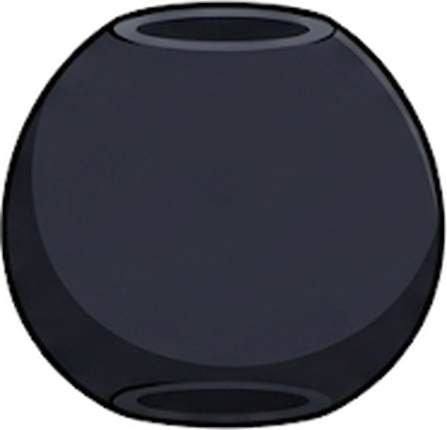
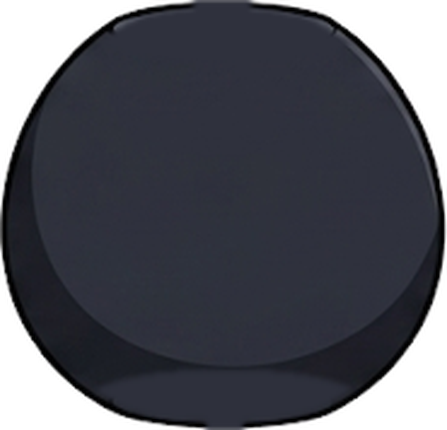
새·개구리 전용 동작: 두 발 걸음(IK)·날갯짓·쪼기·급강하·폴짝 뛰기
- 새 템플릿에 두 다리 IK, bird/frog 전용 동작 파일 추가
- 나는 새(까마귀·독수리)는 전장에서 다리를 접고 날개를 펴 날갯짓
- 부위판 몸통의 목·다리 구멍 자국을 몸 색으로 메움(fill 옵션)

Claude-Session: https://claude.ai/code/session_01E2nhEfyqxMVbe4LYu736id

Changed region(s): [[0.2327, 0.0, 0.7562, 0.1209], [0.2327, 0.8767, 0.698, 1.0]]

diff --git a/src/scenes/BattleScene.js b/src/scenes/BattleScene.js
@@ -853,12 +853,13 @@ export default class BattleScene extends Phaser.Scene {
     const r = v.rig;
     if (!r) return;
     const m = r.inst.motion;
+    const mv = u.stats.flyer && r.inst.anims.fly ? 'fly' : 'move';   // 나는 새는 걷지 않고 날갯짓
     const busy = [...ATTACK_MOTIONS, 'skill', 'hit', 'merge_in', 'evolve', 'respawn'].includes(m) && !r.inst.finished;
     if (this.state.result === 'clear') { if (m !== 'victory') r.inst.play('victory', { loop: true }); }
     else if (u.down) { if (m !== 'down') r.inst.play('down'); }
     else if (v.wasDown) { r.inst.play('respawn'); this.fx.respawn(v.container.x, v.container.y); sfx('respawn'); }
-    else if (onField && (u.moving || v.walking)) { if (m !== 'move') r.inst.play('move', { loop: true }); r.inst.moveVelocity = (u.moving ? Math.sign(u.targetPos - u.pos) : v.walkDir) * 180; }
-    else if (!busy && onField && u.stats.flyer) { if (m !== 'move') r.inst.play('move', { loop: true }); }
+    else if (onField && (u.moving || v.walking)) { if (m !== mv) r.inst.play(mv, { loop: true }); r.inst.moveVelocity = (u.moving ? Math.sign(u.targetPos - u.pos) : v.walkDir) * 180; }
+    else if (!busy && onField && u.stats.flyer) { if (m !== mv) r.inst.play(mv, { loop: true }); }
     else if (!busy && m !== 'idle') r.inst.play('idle', { loop: true });
     if (!u.moving && !v.walking) r.inst.moveVelocity = 0;
     r.inst.setFacing(onField && ((u.moving && u.targetPos < u.pos) || (!u.moving && v.walking && v.walkDir < 0)) ? -1 : 1);

diff --git a/src/scenes/rigs.js b/src/scenes/rigs.js
@@ -15,7 +15,7 @@ export function preloadRigs(scene) {
 const json = (scene, key) => scene.cache.json.get(key);
 
 /** 공격 동작들(할퀴기·들이받기·물기·덮치기 포함). 리그의 attacks 목록을 차례로 돌려 써서 공격이 단조롭지 않게 함. */
-export const ATTACK_MOTIONS = ['attack', 'claw', 'butt', 'bite', 'pounce'];
+export const ATTACK_MOTIONS = ['attack', 'claw', 'butt', 'bite', 'pounce', 'peck', 'swoop'];
 export function playAttack(inst) {
   const list = (inst.rig.attacks || []).filter((n) => inst.anims[n]);
   if (!list.length) return inst.play('attack');

diff --git a/tools/gen_anims.py b/tools/gen_anims.py
@@ -104,4 +104,51 @@ B['hit'] = {'duration': 0.35, 'mix': 0.03, 'breath': 0, 'ik': {'sink': 12},
              'leg_fn_up': {'rot': K((0, 0), (0.06, -30, 'out'), (0.35, 0))}, 'leg_fr_up': {'rot': K((0, 0), (0.06, -24, 'out'), (0.35, 0))}}}
 for k in ('bite', 'pounce'): B.pop(k, None)
 json.dump(B, open(os.path.join(D, 'biped.anims.json'), 'w'), ensure_ascii=False)
-print('anims:', len(Q), 'quadruped clips,', len(B), 'biped clips')
+
+# ---------------------------------------------------------------- 새(까마귀·독수리·수탉): 날개는 wing(+회전 = 위로 듦), 두 다리 IK
+L = json.load(open(os.path.join(D, 'legacy.anims.json')))
+V = copy.deepcopy(L)
+V['idle'] = {'duration': 2.6, 'loop': True, 'breath': 1, 'ik': {'sink': 5},
+  'tracks': {'hips': {'y': K((0, 0), (1.3, 3), (2.6, 0))},
+             'head': {'rot': K((0, 0), (0.8, 0), (0.86, -11, 'out'), (1.5, -11), (1.56, 5, 'out'), (2.2, 5), (2.26, 0, 'out'), (2.6, 0))},   # 새처럼 뚝뚝 끊어 두리번
+             'tail_1': {'rot': K((0, 0), (1.9, 0), (2.0, 14, 'out'), (2.15, -6), (2.3, 0), (2.6, 0))}, 'wing': {'rot': K((0, 0), (1.3, 3), (2.6, 0))}}}
+V['move'] = {'duration': 0.56, 'loop': True, 'breath': 0.3,
+  'ik': {'sink': 7, 'gait': {'center': True, 'stride': 70, 'lift': 24, 'duty': 0.6, 'pitch': 0, 'phase': {'fn': 0, 'bn': 0.5}}},
+  'tracks': {'root': {'y': K((0, 0), (0.14, -4, 'out'), (0.28, 0, 'in'), (0.42, -4, 'out'), (0.56, 0, 'in'))},
+             'hips': {'rot': K((0, 3), (0.28, -3), (0.56, 3))},
+             'neck': {'rot': K((0, 10), (0.14, -8, 'out'), (0.28, 10), (0.42, -8, 'out'), (0.56, 10))},     # 걸음마다 머리를 앞으로 내밀었다 당김
+             'head': {'rot': K((0, -8), (0.14, 6), (0.28, -8), (0.42, 6), (0.56, -8))},
+             'tail_1': {'rot': K((0, -6), (0.28, 6), (0.56, -6))}, 'wing': {'rot': K((0, 3), (0.28, -3), (0.56, 3))}}}
+V['fly'] = {'duration': 0.36, 'loop': True, 'breath': 0,
+  'tracks': {'root': {'y': K((0, 8), (0.18, -10, 'in'), (0.36, 8, 'out'))}, 'hips': {'rot': K((0, -9), (0.18, -5), (0.36, -9))},
+             'wing': {'rot': K((0, 58), (0.18, -38, 'in'), (0.36, 58, 'out')), 'sx': K((0, 1.4), (0.18, 1.25), (0.36, 1.4)), 'sy': K((0, 1.25), (0.36, 1.25))},   # 접힌 날개 그림을 펴서 크게
+             'leg_fn_up': {'rot': K((0, 66), (0.36, 66))}, 'leg_bn_up': {'rot': K((0, 76), (0.36, 76))}, 'leg_fn_lo': {'rot': K((0, -118), (0.36, -118))}, 'leg_bn_lo': {'rot': K((0, -126), (0.36, -126))},   # 다리는 배 밑으로 접음
+             'tail_1': {'rot': K((0, -8), (0.18, 6), (0.36, -8))}, 'head': {'rot': K((0, 6), (0.18, 3), (0.36, 6))}}}
+V['peck'] = {'duration': 0.5, 'mix': 0.05, 'breath': 0.1, 'events': K((0.24, 'hit')), 'ik': {'sink': 7},
+  'tracks': {'hips': {'rot': K((0, 0), (0.14, -7, 'out'), (0.24, 20, 'in'), (0.3, 10), (0.36, 20, 'in'), (0.5, 0)), 'x': K((0, 0), (0.14, -8), (0.24, 18, 'in'), (0.5, 0))},
+             'neck': {'rot': K((0, 0), (0.14, -22, 'out'), (0.24, 34, 'in'), (0.3, 8), (0.36, 32, 'in'), (0.5, 0))},
+             'head': {'rot': K((0, 0), (0.14, -14), (0.24, 22, 'in'), (0.3, 4), (0.36, 20), (0.5, 0))},
+             'tail_1': {'rot': K((0, 0), (0.24, -20), (0.5, 0))}, 'wing': {'rot': K((0, 0), (0.14, 16), (0.24, -6), (0.5, 0))}}}
+V['attack'] = copy.deepcopy(V['peck'])
+V['swoop'] = {'duration': 0.7, 'mix': 0.06, 'breath': 0, 'events': K((0.38, 'hit')),
+  'tracks': {'root': {'x': K((0, 0), (0.2, -30, 'out'), (0.38, 72, 'in'), (0.5, 50, 'out'), (0.7, 0)), 'y': K((0, 0), (0.2, -36, 'out'), (0.38, 16, 'in'), (0.7, 0))},
+             'hips': {'rot': K((0, 0), (0.2, -18, 'out'), (0.38, 16, 'in'), (0.7, 0))},
+             'wing': {'rot': K((0, 0), (0.1, 56), (0.2, 62), (0.38, -32, 'in'), (0.5, 44), (0.6, -20), (0.7, 0)), 'sx': K((0, 1), (0.1, 1.4), (0.6, 1.4), (0.7, 1)), 'sy': K((0, 1), (0.1, 1.25), (0.6, 1.25), (0.7, 1))},
+             'leg_fn_up': {'rot': K((0, 0), (0.2, 34), (0.38, -62, 'in'), (0.7, 0))}, 'leg_bn_up': {'rot': K((0, 0), (0.2, 40), (0.38, -52, 'in'), (0.7, 0))},
+             'head': {'rot': K((0, 0), (0.2, 10), (0.38, -10), (0.7, 0))}, 'tail_1': {'rot': K((0, 0), (0.2, 16), (0.38, -18), (0.7, 0))}}}
+json.dump(V, open(os.path.join(D, 'bird.anims.json'), 'w'), ensure_ascii=False)
+
+# ---------------------------------------------------------------- 개구리: 폴짝 뛰어 이동, 몸을 날려 들이받음(뒷다리를 펴며)
+F = copy.deepcopy(L)
+HOP = lambda t0, t1, t2: {'leg_bn_up': {'rot': K((0, 0), (t0, -10), (t1, 62, 'out'), (t2, 8), (t2 + 0.14, 0))}, 'leg_br_up': {'rot': K((0, 0), (t0, -10), (t1, 58, 'out'), (t2, 8), (t2 + 0.14, 0))},
+                          'leg_bn_lo': {'rot': K((0, 0), (t0, 6), (t1, -84, 'out'), (t2, -10), (t2 + 0.14, 0))}, 'leg_br_lo': {'rot': K((0, 0), (t0, 6), (t1, -80, 'out'), (t2, -10), (t2 + 0.14, 0))},
+                          'leg_fn_up': {'rot': K((0, 0), (t1, -42), (t2, 12), (t2 + 0.14, 0))}, 'leg_fr_up': {'rot': K((0, 0), (t1, -36), (t2, 12), (t2 + 0.14, 0))}}
+F['move'] = {'duration': 0.6, 'loop': True, 'breath': 0,
+  'tracks': {'root': {'y': K((0, 0), (0.1, 7, 'out'), (0.3, -54, 'out'), (0.46, 0, 'in'), (0.52, 7, 'out'), (0.6, 0)), 'sy': K((0, 1), (0.1, 0.9), (0.3, 1.07), (0.5, 0.92), (0.6, 1))},
+             'hips': {'rot': K((0, 0), (0.1, 5), (0.25, -15, 'out'), (0.44, 10), (0.6, 0))}, 'head': {'rot': K((0, 0), (0.25, -6), (0.46, 8), (0.6, 0))}, **HOP(0.1, 0.25, 0.46)}}
+F['butt'] = {'duration': 0.64, 'mix': 0.05, 'breath': 0, 'events': K((0.3, 'hit')),
+  'tracks': {'root': {'x': K((0, 0), (0.18, -22, 'out'), (0.3, 64, 'in'), (0.42, 44, 'out'), (0.64, 0)), 'y': K((0, 0), (0.18, 7, 'out'), (0.3, -24, 'in'), (0.42, 0, 'in'), (0.64, 0)),
+                      'sy': K((0, 1), (0.18, 0.88), (0.3, 1.08), (0.44, 0.93), (0.64, 1))},
+             'hips': {'rot': K((0, 0), (0.18, 6), (0.3, -10), (0.42, 6), (0.64, 0))}, 'head': {'rot': K((0, 0), (0.18, 8), (0.3, -12), (0.64, 0))}, **HOP(0.18, 0.3, 0.44)}}
+json.dump(F, open(os.path.join(D, 'frog.anims.json'), 'w'), ensure_ascii=False)
+print('anims:', len(Q), 'quadruped,', len(B), 'biped,', len(V), 'bird,', len(F), 'frog clips')

diff --git a/tools/gen_rig_art.py b/tools/gen_rig_art.py
@@ -155,7 +155,9 @@ def bird_template():
         S.append(s)
     T['slots'] = S
     T['procedural']['breath']['slots'] = ['body', 'belly']
-    return clean(T)
+    T = clean(T)
+    T['ik'] = [{'name': n, 'upper': f'leg_{n}_up', 'lower': f'leg_{n}_lo', 'paw': f'leg_{n}_paw', 'bend': -1} for n in ('fn', 'bn')]
+    return T
 
 def frog_template():
     T = quad_template(); T['id'] = 'frog'
@@ -188,7 +190,7 @@ def frog_template():
     return clean(T)
 
 def bug_template():
-    T = bird_template(); T['id'] = 'bug'
+    T = bird_template(); T['id'] = 'bug'; T.pop('ik', None)
     for bn in T['bones']:
         if bn['name'] == 'hips': bn.update(x=-40, y=-150, length=170)
         if bn['name'] == 'ear_n': bn.update(x=10, y=-60, rot=-75, length=110)
@@ -612,18 +614,18 @@ def main():
         stages = {}
         for stg, (label, scale, speed, amp, bs) in STAGE_OF.items():
             stages[stg] = {'label': label, 'scale': scale, 'speed': speed, 'amp': amp, 'boneScale': bs, 'parts': dict(parts)}
-        rig = {'species': sid, 'skin': sid, 'template': sp['t'], 'anims': sp['t'] if sp['t'] in ('biped', 'quadruped') else 'legacy', 'artRes': RES,
+        rig = {'species': sid, 'skin': sid, 'template': sp['t'], 'anims': sp['t'] if sp['t'] in ('biped', 'quadruped', 'bird', 'frog') else 'legacy', 'artRes': RES,
                'palette': {'fur': sp['c'], 'furDark': shade(sp['c'], 0.72), 'belly': sp.get('belly', '#f6e7cf'), 'ink': INK, 'accent': '#ffd36b'},
                'slotOverrides': slot_over, 'stages': stages, 'skins': {'default': {'parts': {}}}}
         json.dump(rig, open(os.path.join(DATA, f'{sid}.rig.json'), 'w'), ensure_ascii=False, indent=1)
         index.append(sid)
-    json.dump({'rigs': index, 'templates': list(templates), 'anims': ['quadruped', 'biped', 'legacy', 'sprite']}, open(os.path.join(DATA, 'index.json'), 'w'), ensure_ascii=False, indent=1)
+    json.dump({'rigs': index, 'templates': list(templates), 'anims': ['quadruped', 'biped', 'bird', 'frog', 'legacy', 'sprite']}, open(os.path.join(DATA, 'index.json'), 'w'), ensure_ascii=False, indent=1)
     manifest['images'] = images
     json.dump(manifest, open(manifest_path, 'w'), ensure_ascii=False, indent=2)
     print(len(index), 'rigs,', sum(1 for k in images if k.startswith('rig-')), 'part images')
 
 if __name__ == '__main__':
     main()
+    import gen_anims  # 동작 클립 보강(IK 걸음, 할퀴기·들이받기 등). 부위 입히기가 이 클립 파일을 읽으니 먼저 만듦
     # 제미나이 부위판이 있는 동물은 벡터 부위 대신 그 그림을 입힘
     import apply_parts; apply_parts.main()
-    import gen_anims  # 동작 클립 보강(IK 걸음, 할퀴기·들이받기 등)

diff --git a/tools/apply_parts.py b/tools/apply_parts.py
@@ -10,7 +10,7 @@ art-src/gemini/fit/<종>.json    : 조각 → 리그 부위 맞춤(tools/gen_fit
 """
 import json, os, subprocess, glob
 import numpy as np
-from PIL import Image, ImageEnhance
+from PIL import Image, ImageEnhance, ImageFilter
 ROOT = os.path.join(os.path.dirname(os.path.abspath(__file__)), '..')
 G = os.path.join(ROOT, 'art-src', 'gemini')
 DATA = os.path.join(ROOT, 'public', 'data', 'rig')
@@ -18,6 +18,14 @@ ART = os.path.join(ROOT, 'public', 'assets', 'rig')
 
 def piece(sp, o):
     im = Image.open(os.path.join(G, 'parts', sp, o['src'] + '.png')).convert('RGBA')
+    for cx, cy, rx, ry, sx, sy in o.get('fill', []):   # 부위판에 그려진 목·다리 끼우는 구멍을 몸 색으로 메움(머리가 흔들릴 때 드러나지 않게). 값은 그림 크기 대비 비율
+        A = np.array(im).astype(float); H, W = A.shape[:2]; yy, xx = np.mgrid[0:H, 0:W]
+        inside = Image.fromarray((A[..., 3] > 200).astype(np.uint8) * 255).filter(ImageFilter.MinFilter(7))   # 외곽선은 남김
+        m = (((xx - cx * W) / (rx * W)) ** 2 + ((yy - cy * H) / (ry * H)) ** 2 <= 1) & (np.array(inside) > 0)
+        m = np.array(Image.fromarray(m.astype(np.uint8) * 255).filter(ImageFilter.GaussianBlur(1.2))).astype(float)[..., None] / 255
+        col = A[round(sy * H) - 2: round(sy * H) + 3, round(sx * W) - 2: round(sx * W) + 3, :3].reshape(-1, 3).mean(0)
+        A[..., :3] = A[..., :3] * (1 - m) + col * m
+        im = Image.fromarray(A.astype(np.uint8), 'RGBA')
     if o.get('crop'):
         W, H = im.size; x0, y0, x1, y1 = o['crop']; im = im.crop((round(x0 * W), round(y0 * H), round(x1 * W), round(y1 * H)))
     for side in o.get('feather', []):       # 잘린 변이 겹치는 부위 위에서 선으로 보이지 않게 투명하게 풀어 줌
